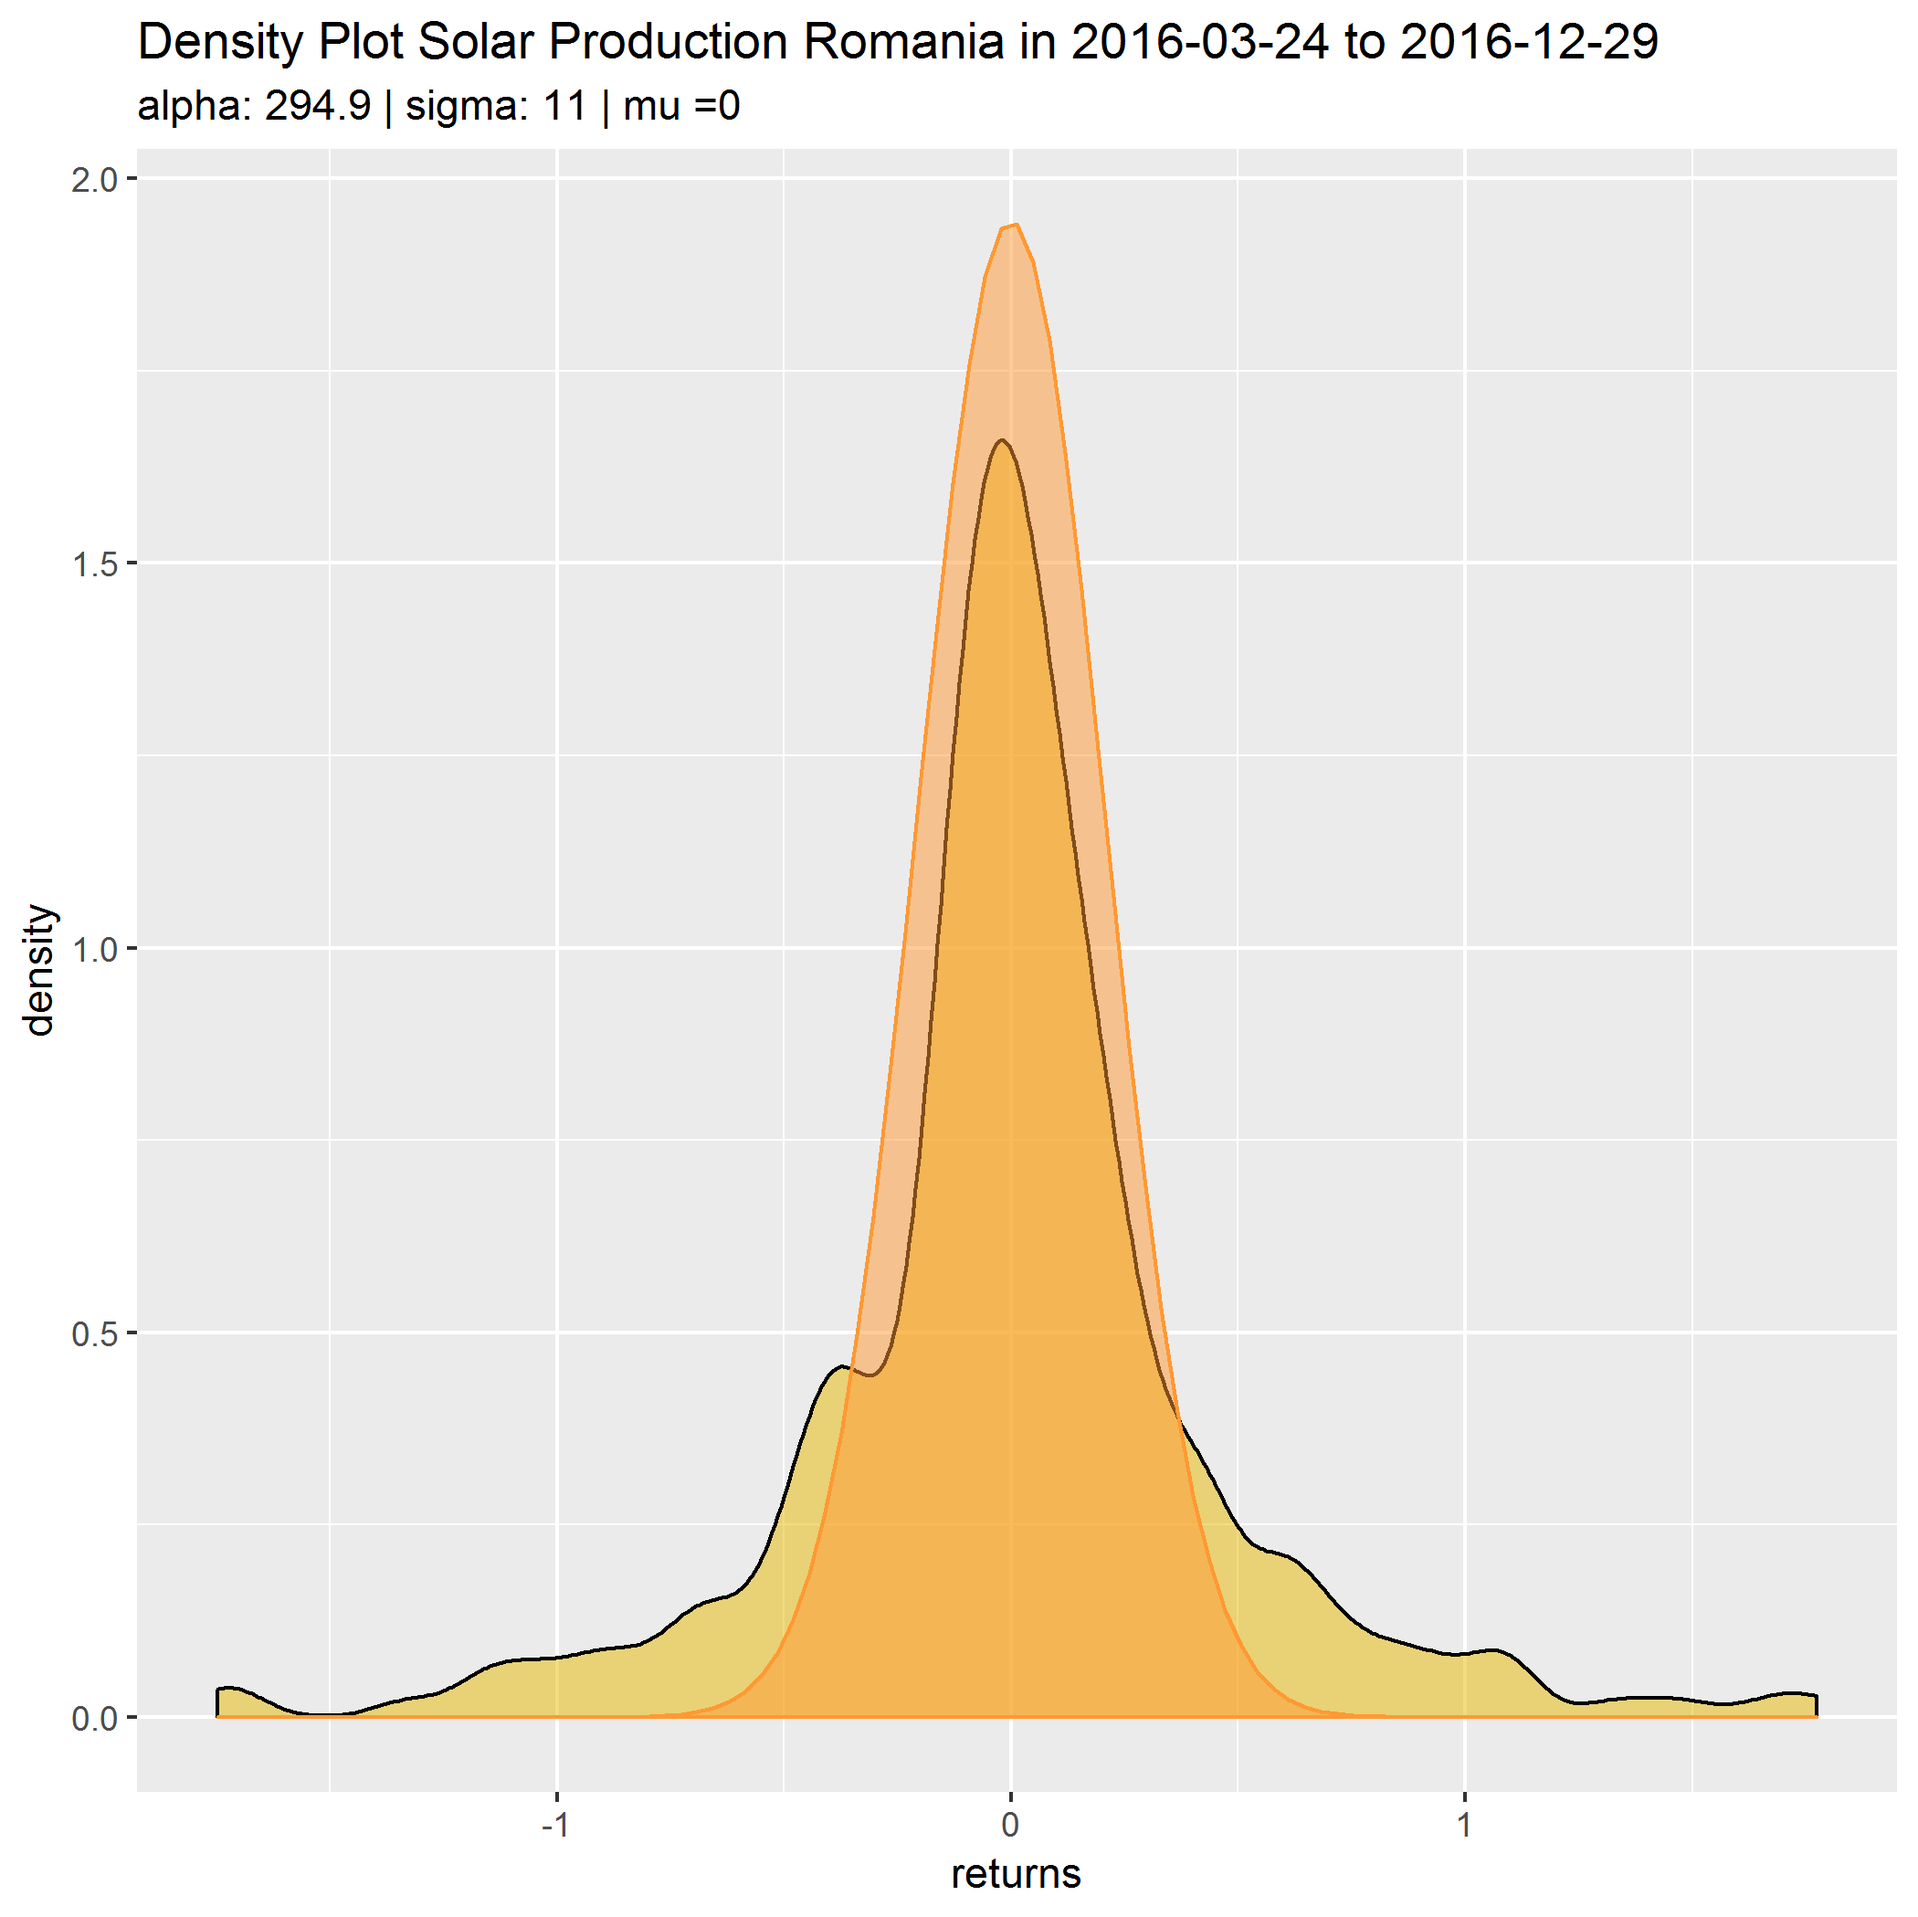
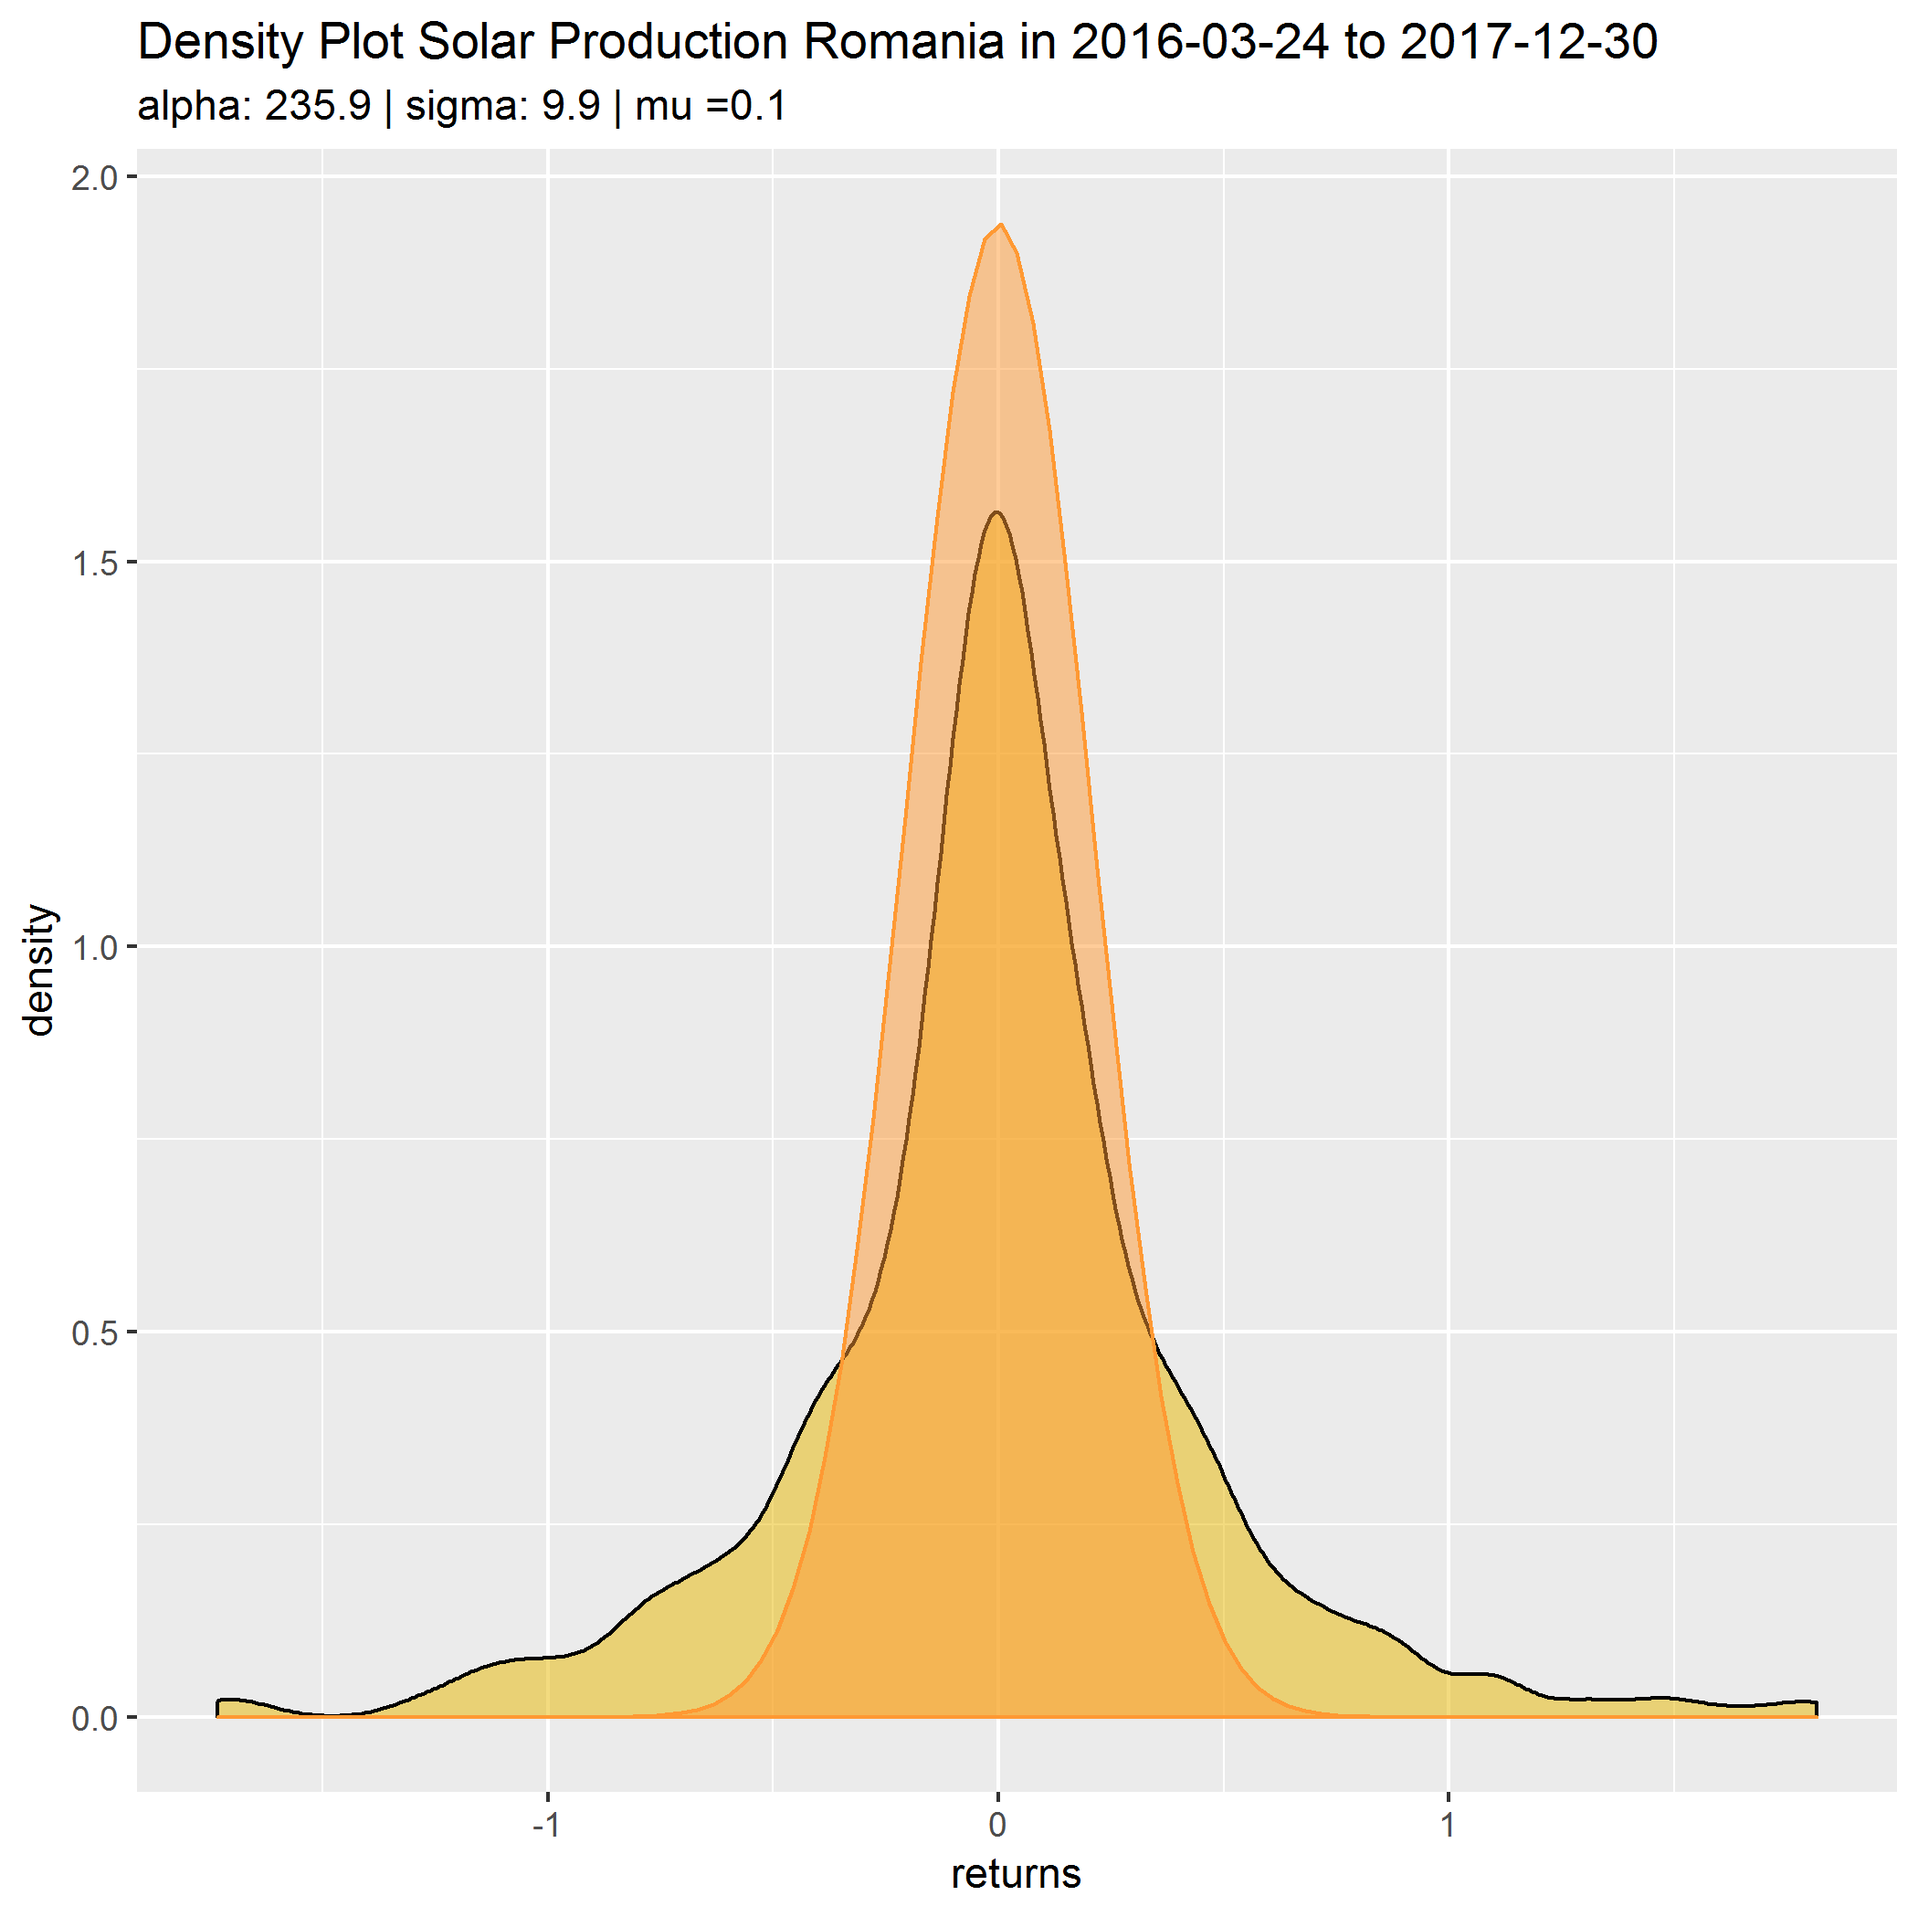
adding stuffs

diff --git a/_posts/2019-03-29-initial.md b/_posts/2019-03-29-initial.md
@@ -30,14 +30,14 @@ In terms of model formulation we stick to the model of [Lucia&Schwartz](https://
 $$
 \begin{matrix}
 S(t) =  exp(f(t)+X(t)) \\
-dX(t) = -\alpha X(t)dt+\sigma dW(t) \\
+dX(t) = (\mu-\alpha)X(t)dt+\sigma dW(t) \\
 f(t)  =  a_0+\sum_{i=1}^6[a_i cos(2\pi\gamma_it)+b_i sin(2\pi\gamma_i t)] \\
 \end{matrix}
 $$
 
 The truncated fourier series $f(t)$ is used to describe seasonality seen in the data above. A lot of different ways to capture seasonality have been tried out and we will stick to the following seasonality approach as it captures yearly, monthly as well as weekly seasonality. We set the parameters $$ \gamma_1 = 1, \gamma_2 = 2 ,\gamma_3 = 4, \gamma_4 = \frac{365}{7}, \gamma_5 = 2*\frac{365}{7}, \gamma_6 = 4*\frac{365}{7} $$, which corresponds to annually, semi-annually, quarterly, weekly, semi-weekly and quarter-weekly seasonality factors.
 
-We use a logarithmic model, where the dynamic is driven by Ornstein-Uhlenbeck process. Parameter $\alpha$ describes the mean reversion speed or in other words how fast the production returns to its seasonal mean after experiencing a spike. As usual $\sigma$ represents the volatility of the underlying.
+We use a logarithmic model, where the dynamic is driven by a mean-reverting Ornstein-Uhlenbeck process. Parameter $\alpha$ describes the mean reversion speed or in other words how fast the production returns to its seasonal mean after experiencing a spike. As usual $\sigma$ represents the volatility of the underlying. Honestly speaking I am always unsure about the parameter $\mu$. I know models where this parameter is left out, because calibration often sets $\mu$ to zero, but for our exercise we will drag him along.
 ## Calibration
 As pointed out above, seasonality seems to play a major role in our time series. Hence we will firstly estimate the seasonality with a simple linear regression of trigonometric basis functions against the logarithm of observed daily production volumes. To uncover yearly seasonality we will use three years of historical daily production volumes. Results of the linear model are as follows:
 <figure class="half">
